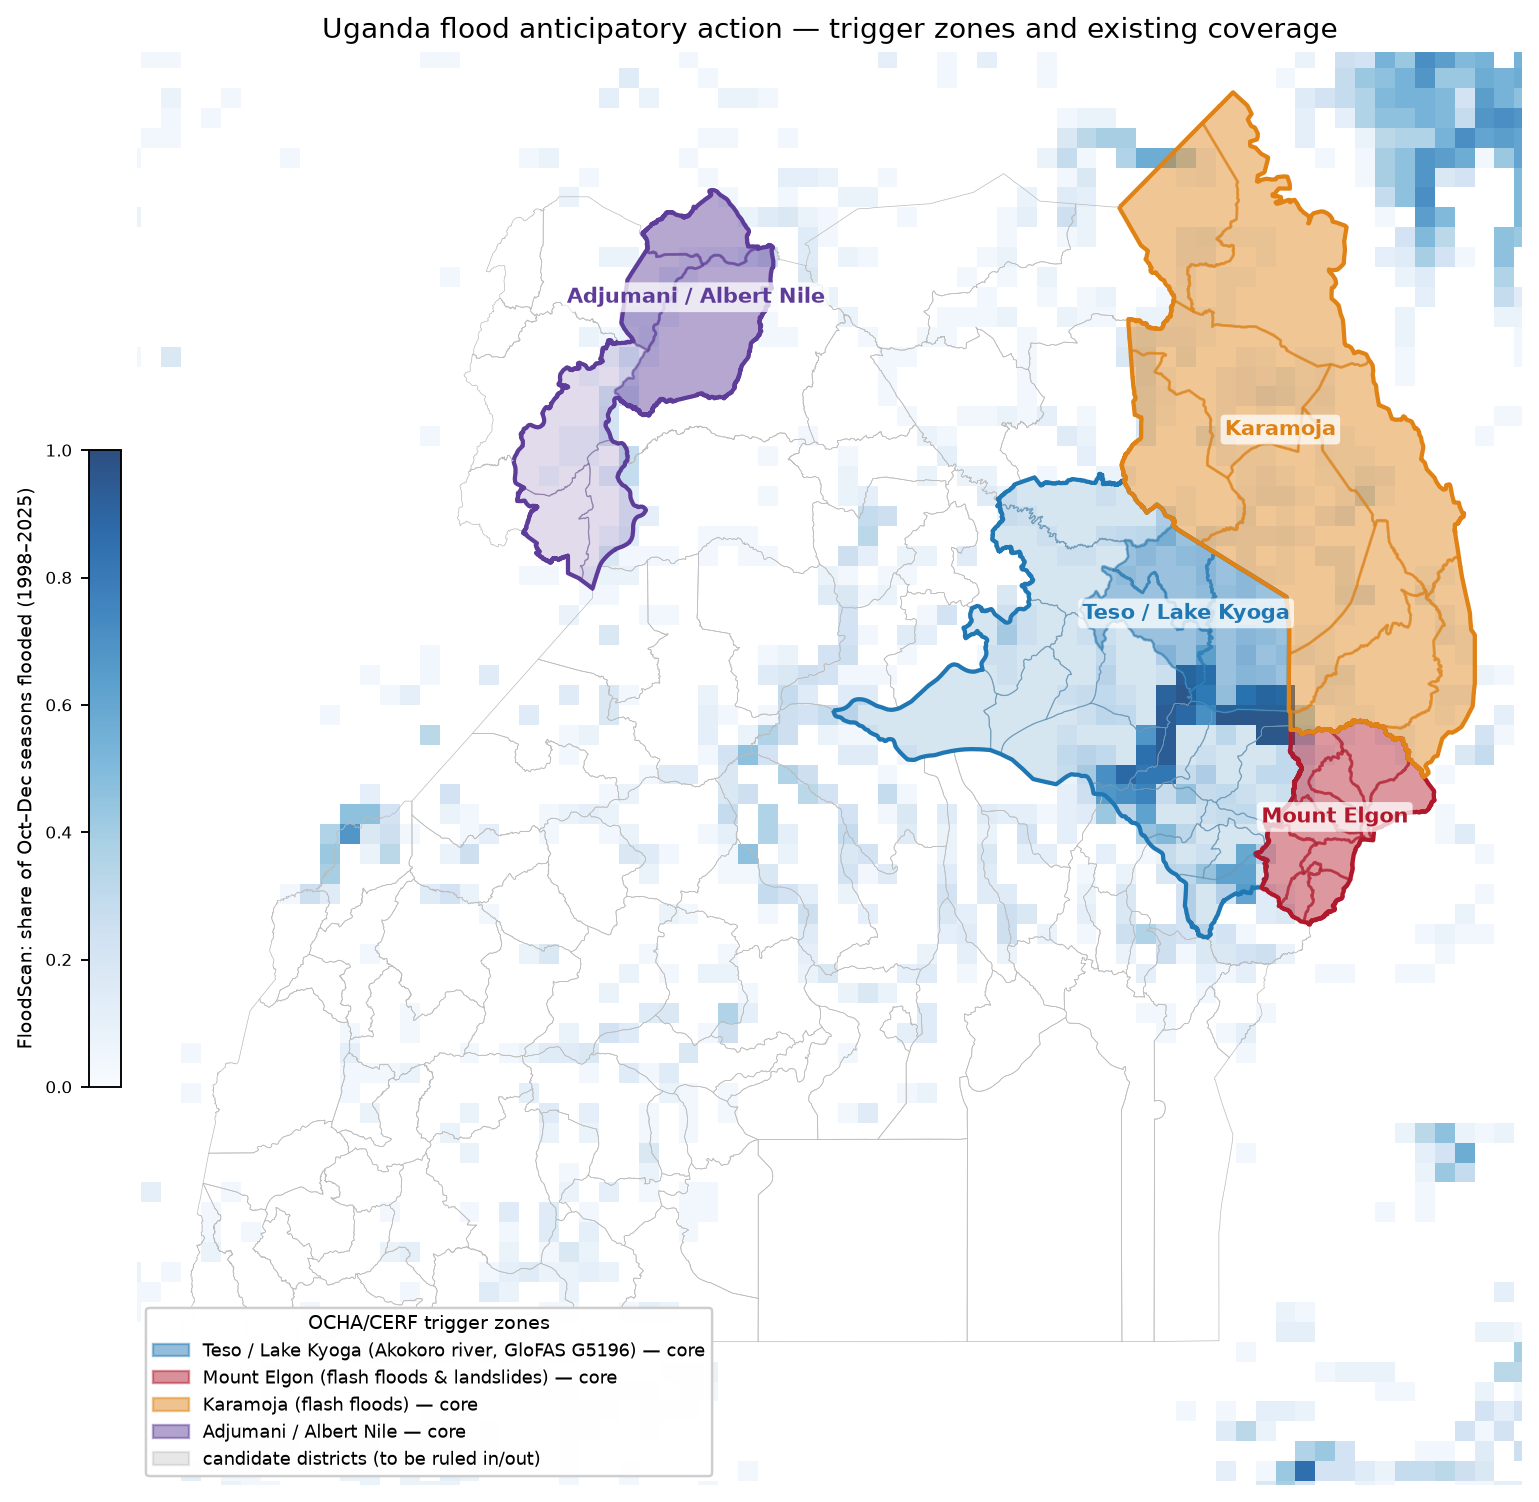
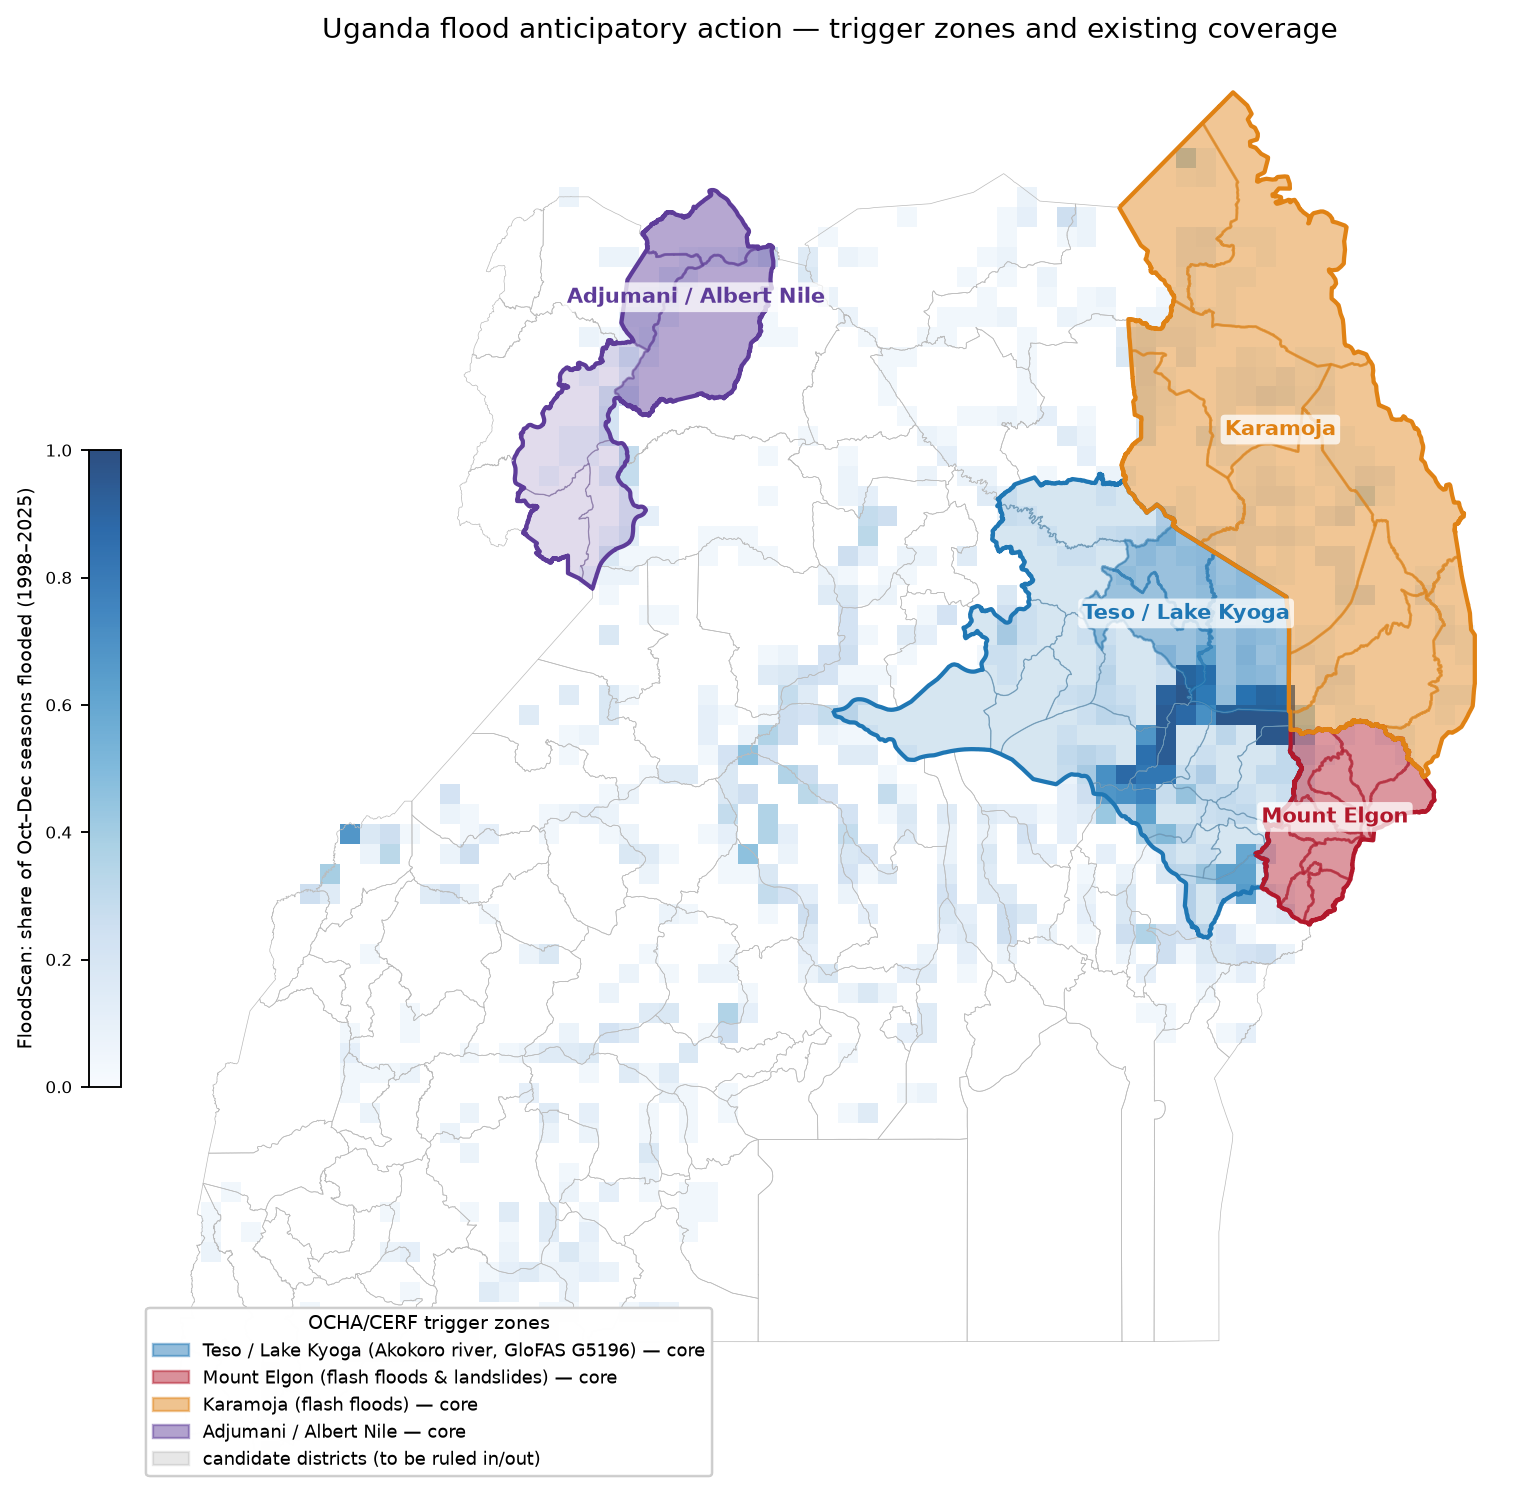
GloFAS coverage module (discharge vs district flood extent); clip map backdrop

diff --git a/src/glofas_coverage.py b/src/glofas_coverage.py
@@ -1,0 +1,99 @@
+"""What does the G5196 (Akokoro) GloFAS point "cover"? — discharge vs district flood extent.
+
+For each candidate district of the Teso/Kyoga zone, relate the daily GloFAS
+reanalysis discharge at the point to the district's FloodScan SFED daily mean:
+
+  * peak-season correlation at lags 0..L days (discharge leading extent) — a
+    district the point covers should track it with a short positive lag;
+  * event agreement: for each season, does the district's SFED annual maximum
+    fall within +/- k days of the discharge annual maximum;
+  * threshold agreement: share of district flood days (SFED above its RP-2
+    level) on which discharge was also above its RP-2 level.
+
+Districts that score high on all three are "covered"; the rest need another
+indicator. Output is one tidy frame per district for the notebook to plot.
+"""
+
+import numpy as np
+import pandas as pd
+
+from src.skill_chain import annual_max, weibull_threshold
+
+
+def lagged_corr(
+    dis: pd.Series, sfed: pd.Series, max_lag: int = 30, months=(8, 9, 10, 11, 12)
+) -> pd.Series:
+    """corr(discharge(t - lag), sfed(t)) for lag 0..max_lag, restricted to flood-season months."""
+    d, s = dis.asfreq("D"), sfed.asfreq("D")
+    idx = d.index.intersection(s.index)
+    out = {}
+    for lag in range(max_lag + 1):
+        dl = d.shift(lag).loc[idx]
+        m = idx.month.isin(months)
+        out[lag] = dl[m].corr(s.loc[idx][m])
+    return pd.Series(out, name="corr")
+
+
+def peak_agreement(dis: pd.Series, sfed: pd.Series, tolerance_days: int = 15) -> pd.DataFrame:
+    """Per year: date of discharge max, date of SFED max, gap in days, and whether within tolerance."""
+    d, s = dis.asfreq("D"), sfed.asfreq("D")
+    years = sorted(set(d.dropna().index.year) & set(s.dropna().index.year))
+    rows = []
+    for y in years:
+        dy, sy = d[str(y)], s[str(y)]
+        if dy.dropna().empty or sy.dropna().empty:
+            continue
+        td, ts = dy.idxmax(), sy.idxmax()
+        gap = (ts - td).days
+        rows.append(
+            dict(
+                year=y,
+                dis_peak=td,
+                sfed_peak=ts,
+                gap_days=gap,
+                agree=abs(gap) <= tolerance_days,
+                dis_max=float(dy.max()),
+                sfed_max=float(sy.max()),
+            )
+        )
+    return pd.DataFrame(rows)
+
+
+def threshold_agreement(dis: pd.Series, sfed: pd.Series, rp_years: float = 2.0) -> dict:
+    """Share of district flood days (SFED >= its RP threshold) with discharge >= its RP threshold, and vice versa."""
+    d, s = dis.asfreq("D"), sfed.asfreq("D")
+    idx = d.dropna().index.intersection(s.dropna().index)
+    d, s = d.loc[idx], s.loc[idx]
+    dt, st = weibull_threshold(annual_max(d), rp_years), weibull_threshold(annual_max(s), rp_years)
+    fd, fs = d >= dt, s >= st
+    return dict(
+        rp_years=rp_years,
+        dis_thresh=dt,
+        sfed_thresh=st,
+        p_dis_given_sfed=float(fd[fs].mean()) if fs.any() else np.nan,
+        p_sfed_given_dis=float(fs[fd].mean()) if fd.any() else np.nan,
+        n_sfed_days=int(fs.sum()),
+        n_dis_days=int(fd.sum()),
+    )
+
+
+def coverage_table(dis: pd.Series, sfed_by_district: dict[str, pd.Series]) -> pd.DataFrame:
+    rows = []
+    for name, s in sfed_by_district.items():
+        lc = lagged_corr(dis, s)
+        pa = peak_agreement(dis, s)
+        ta = threshold_agreement(dis, s)
+        rows.append(
+            dict(
+                district=name,
+                best_lag=int(lc.idxmax()),
+                best_corr=float(lc.max()),
+                corr_lag0=float(lc.iloc[0]),
+                peak_agree_share=float(pa.agree.mean()) if len(pa) else np.nan,
+                n_years=len(pa),
+                median_gap_days=float(pa.gap_days.median()) if len(pa) else np.nan,
+                p_dis_given_sfed=ta["p_dis_given_sfed"],
+                p_sfed_given_dis=ta["p_sfed_given_dis"],
+            )
+        )
+    return pd.DataFrame(rows).sort_values("best_corr", ascending=False).reset_index(drop=True)

diff --git a/pipeline/zones_map.py b/pipeline/zones_map.py
@@ -52,6 +52,17 @@ def main() -> None:
             rec = ds.read(1)
             b = ds.bounds
         rec = np.where(rec > 0.02, rec, np.nan)
+        # clip to Uganda so neighbouring countries' wetlands don't distract
+        from rasterio.features import geometry_mask
+
+        with rasterio.open(io.BytesIO(data)) as ds:
+            inside = ~geometry_mask(
+                [adm2.dissolve().geometry.iloc[0]],
+                out_shape=rec.shape,
+                transform=ds.transform,
+                invert=False,
+            )
+        rec = np.where(inside, rec, np.nan)
         im = ax.imshow(
             rec,
             extent=(b.left, b.right, b.bottom, b.top),
@@ -76,7 +87,7 @@ def main() -> None:
     adm2.boundary.plot(ax=ax, aspect=None, color="#bbbbbb", linewidth=0.3, zorder=2)
 
     # zones
-    for key, zone in ZONES.items():
+    for key in ZONES:
         g = zone_districts(key)
         col = ZONE_COL[key]
         g[g.membership == "candidate"].plot(
